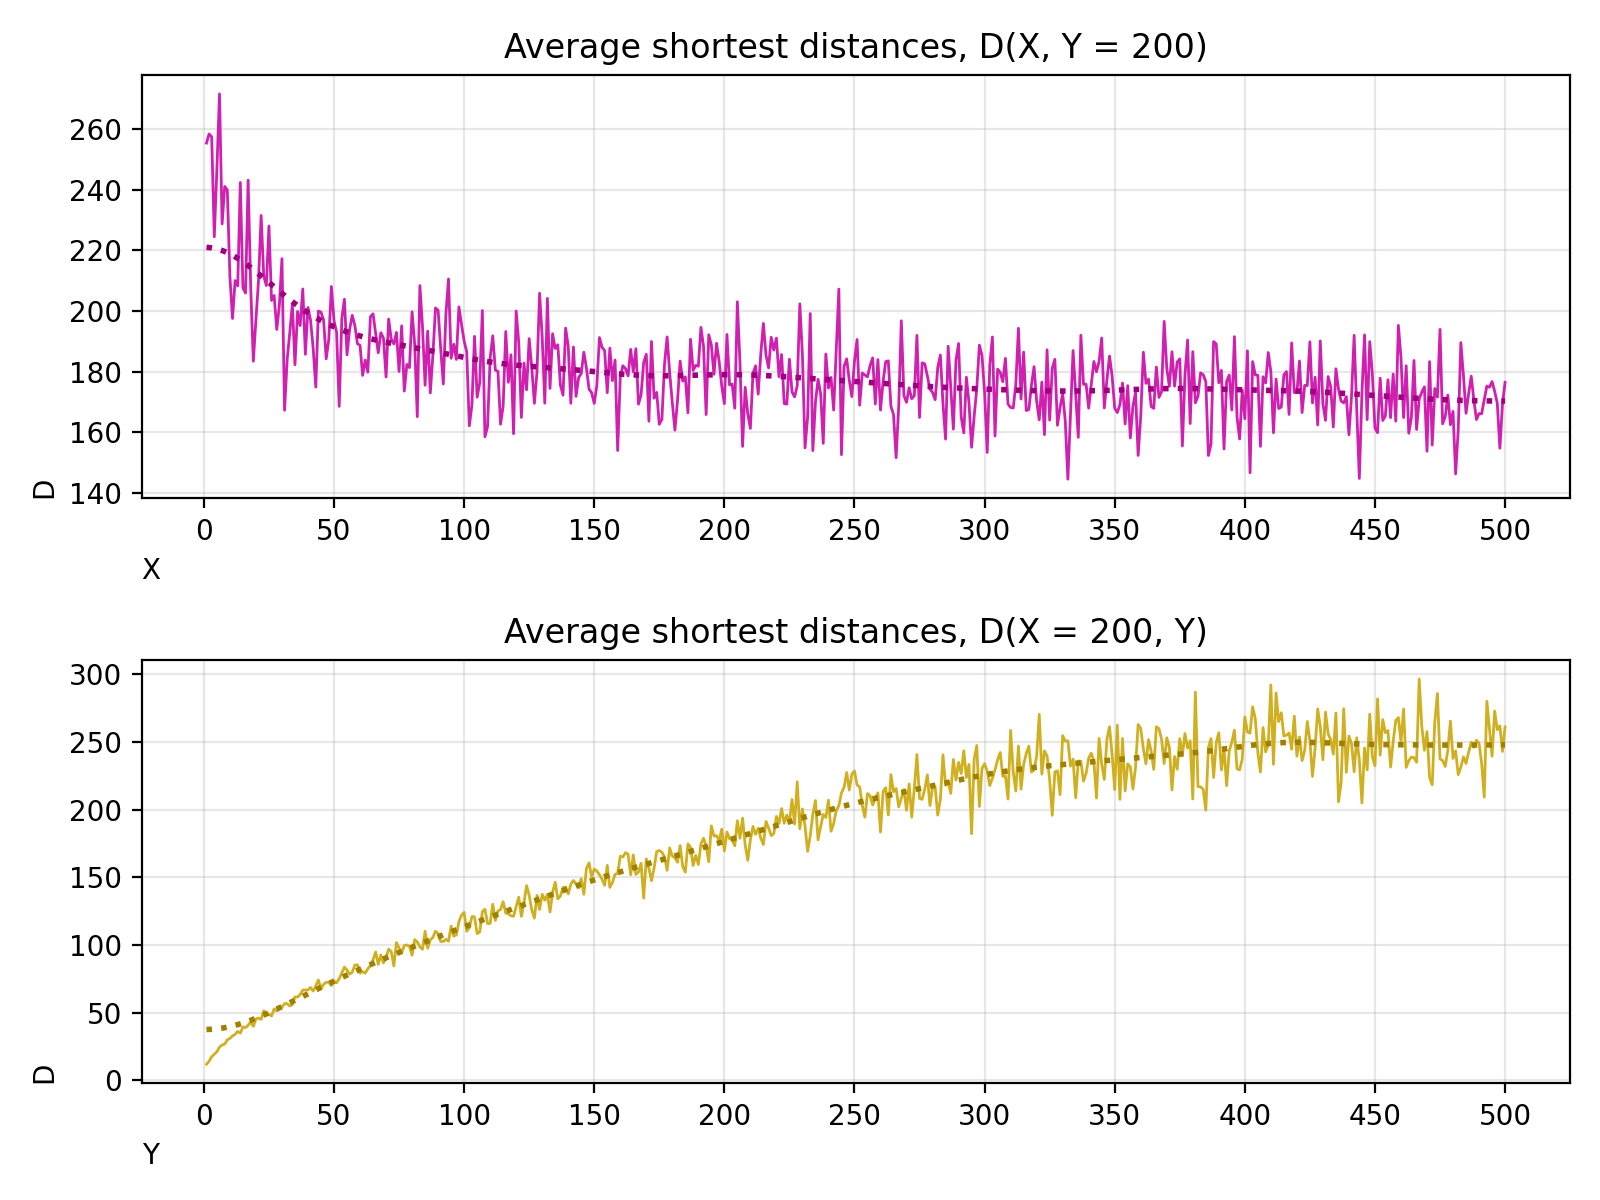
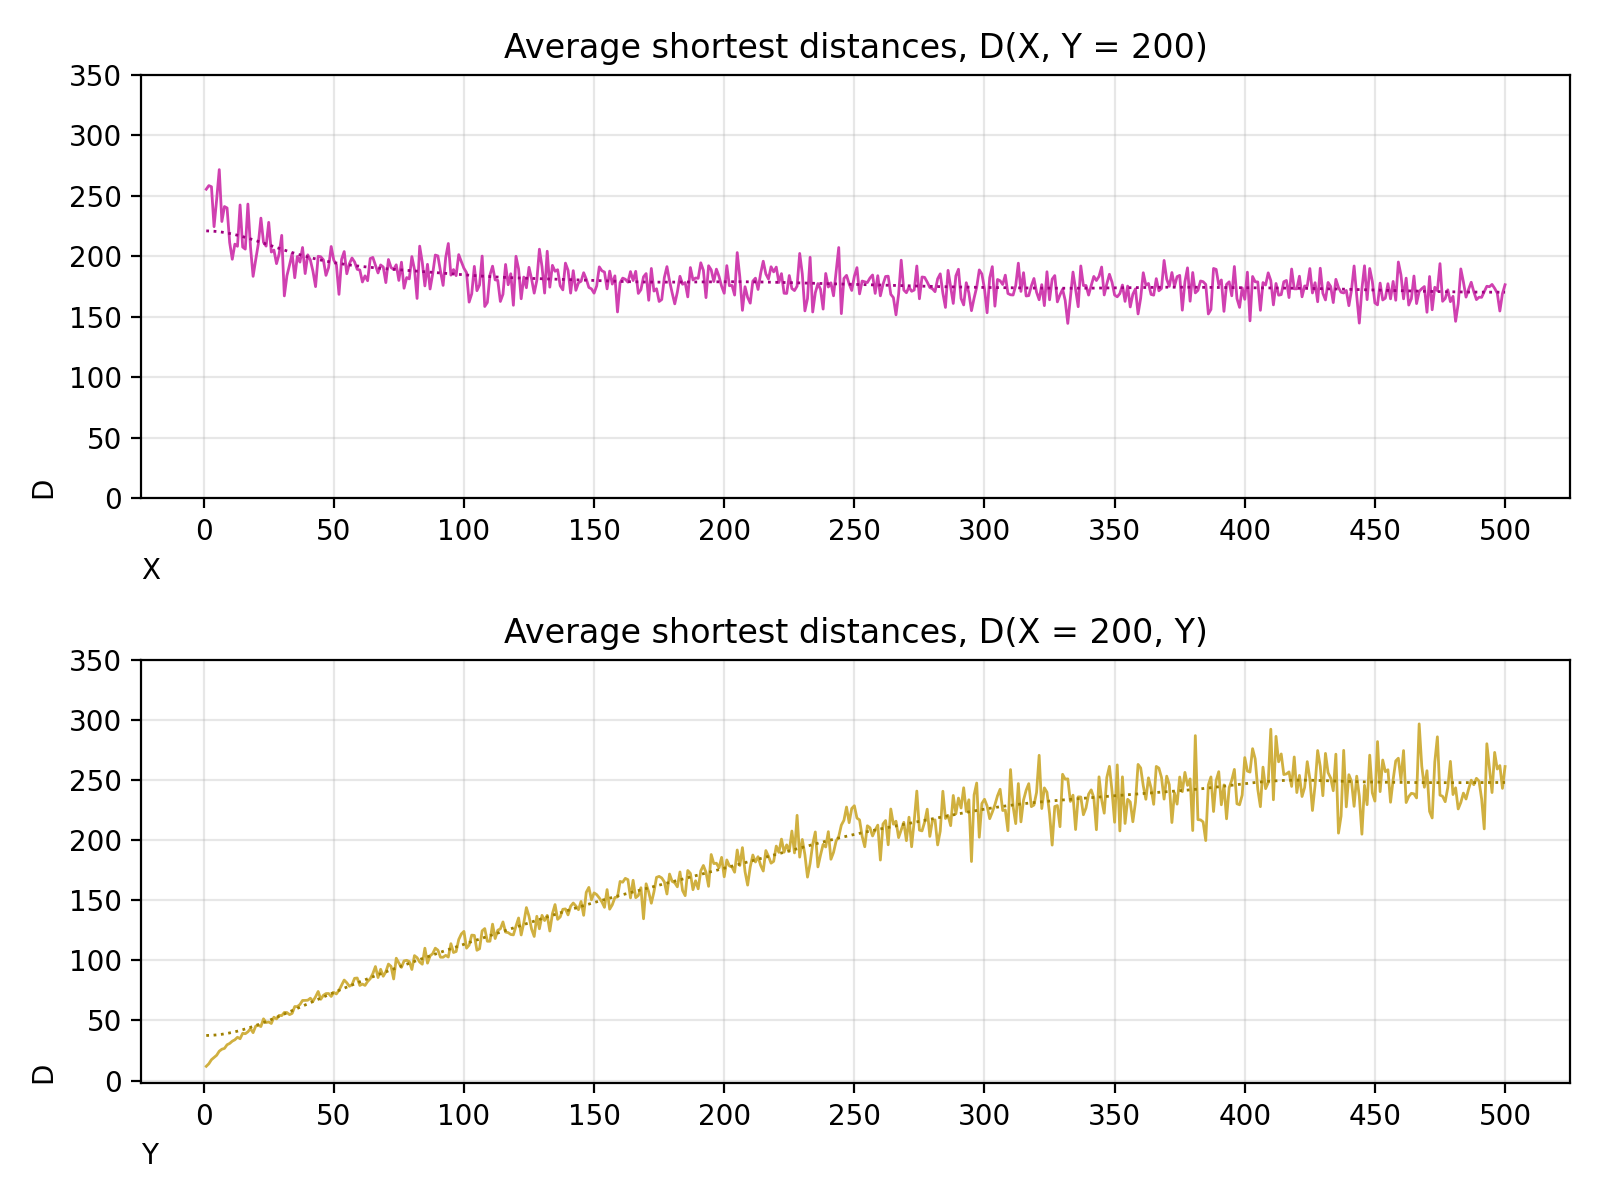
Asher Chen commited at 2023-01-14_20-37-46

diff --git a/test/plot.py b/test/plot.py
@@ -88,26 +88,32 @@ def xd_yd(X, Y):
   #
   fig.add_subplot(211)
   plt.grid(which = 'both', alpha = 0.3)
-  plt.plot(x, x_d, color='#D020B0', linewidth=1)
-  plt.plot(x, gaussian_filter1d(x_d, 20), ':', color='#A00080', linewidth=2)
+  plt.plot(x, x_d, color='#D040B0', linewidth=1)
+  plt.plot(x, gaussian_filter1d(x_d, 20), ':', color='#A00080', linewidth=1)
   plt.xlabel('X', loc = 'left')
   plt.ylabel('D', loc = 'bottom')
   plt.title(f'Average shortest distances, D(X, Y = {Y})')
   plt.xticks(
     np.arange(0, data[['X']].max()[0] + 50, 50)
   )
+  plt.yticks(
+    np.arange(0, data[['D']].max()[0] + 50, 50)
+  )
 
   # plot y-d
   #
   fig.add_subplot(212)
   plt.grid(which = 'both', alpha = 0.3)
-  plt.plot(y, y_d, color='#D0B020', linewidth=1)
-  plt.plot(y, gaussian_filter1d(y_d, 20), ':', color='#A08000', linewidth=2)
+  plt.plot(y, y_d, color='#D0B040', linewidth=1)
+  plt.plot(y, gaussian_filter1d(y_d, 20), ':', color='#A08000', linewidth=1)
   plt.xlabel('Y', loc = 'left')
   plt.ylabel('D', loc = 'bottom')
   plt.title(f'Average shortest distances, D(X = {X}, Y)')
   plt.xticks(
     np.arange(0, data[['Y']].max()[0] + 50, 50)
+  )
+  plt.yticks(
+    np.arange(0, data[['D']].max()[0] + 50, 50)
   )
 
   # output
